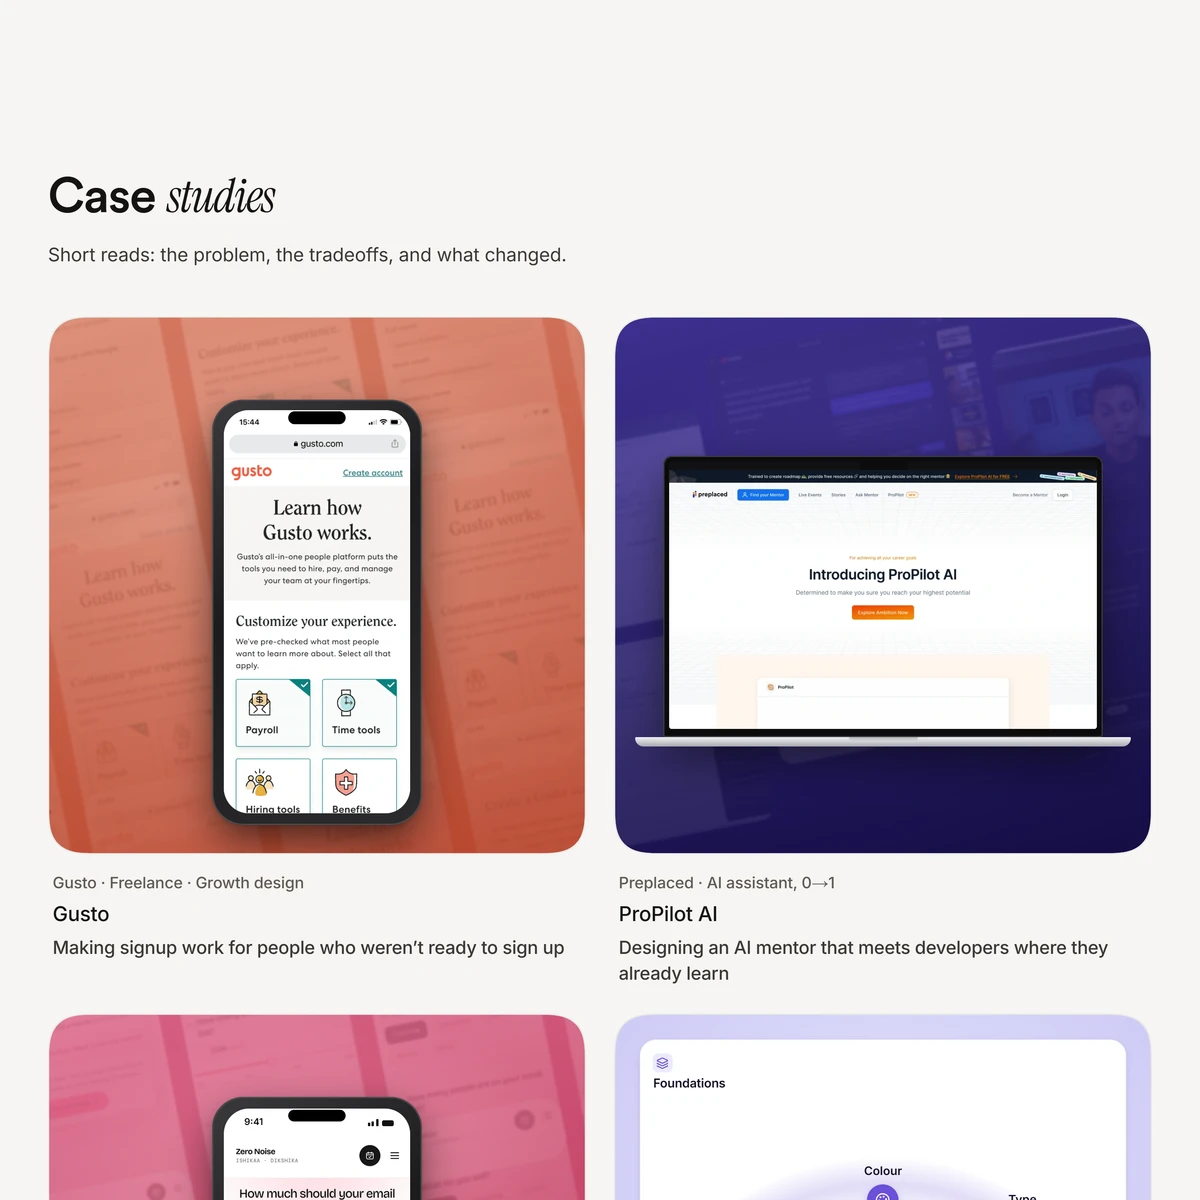
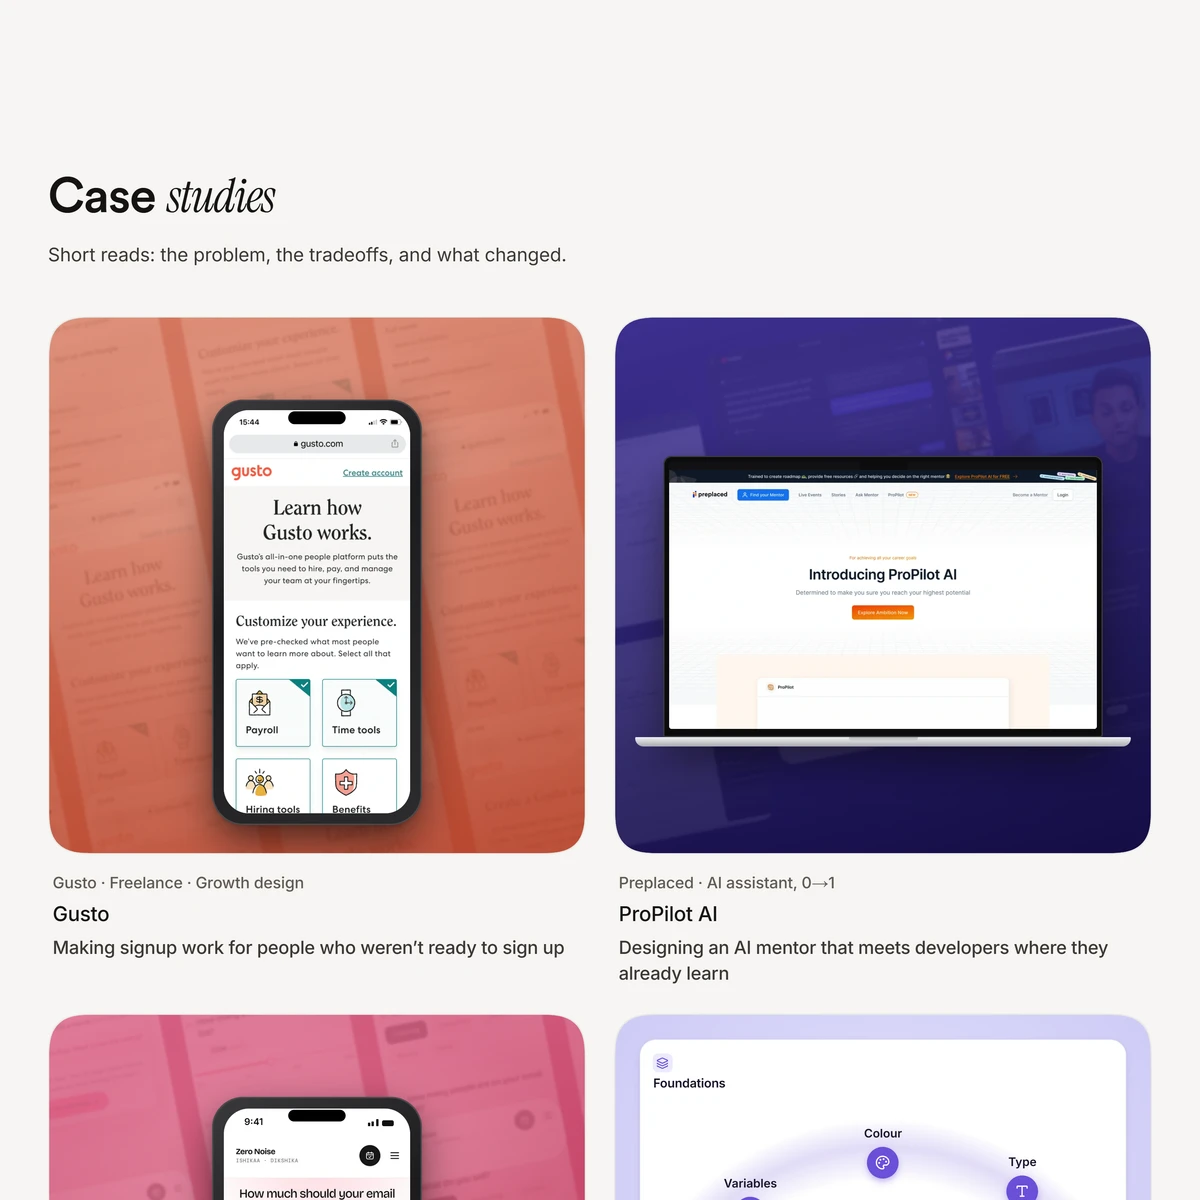
Bento covers: arc sits higher; Internshala now before Natasha

Changed region(s): [[0.5858, 0.925, 0.8942, 1.0]]

diff --git a/src/content/case-studies.ts b/src/content/case-studies.ts
@@ -719,99 +719,7 @@ export const caseStudies: CaseStudy[] = [
     ],
   },
 
-  // ─────────────────────────────── 05. Natasha ───────────────────────────────
-  {
-    slug: "natasha",
-    name: "Natasha",
-    title: "Designing Builder.ai’s AI Product Manager across chat, voice, and the workspace",
-    meta: ["Product Designer", "Builder.ai", "Conversational interface design", "Part of the BLOCK redesign"],
-    intro:
-      "Natasha was being introduced as Builder.ai’s AI Product Manager: a conversational way to help people begin building an app or explore an idea. I worked on the interface and reusable patterns for that experience as part of the wider design-system redesign supporting its launch. The design spans a compact side panel, an immersive conversation view, and an in-page voice bar. The challenge was to make each mode understandable while preserving a recognisable interaction language.",
-    summary: {
-      heading: "What the design covered",
-      items: [
-        "Welcome states and starting prompts that make the assistant’s purpose concrete.",
-        "Text input, voice entry, and transcribed user-message patterns.",
-        "Structured responses with follow-up actions and response-level controls.",
-        "Listening, thinking, speaking, pause, loading, and interruption states.",
-      ],
-    },
-    label: "Builder.ai · AI product",
-    deliverables: ["Conversation UI", "Voice states", "Components", "Interaction design"],
-    concept: false,
-    sections: [
-      {
-        title: "Make the first conversation easier to begin",
-        body: [
-          "The opening experience introduces Natasha and asks what the person would like to build. Suggested starting points such as “Build app”, “Create store”, and “Prototype” connect the assistant to recognisable goals.",
-          "This gives someone a starting point even if they have not worked out how to phrase their request. The message field remains available for people ready to describe their own idea.",
-          "The design intention was to communicate both purpose and possibility: what Natasha can help with, and how to start.",
-        ],
-        visuals: [
-          {
-            kind: "browser",
-            shots: [shot("/work/natasha/immersive-welcome.webp", "Immersive welcome: the opening question, message field, Talk control, and goal-based prompts")],
-            caption: "The opening question, message field, Talk control, and goal-based prompts introduce the experience",
-          },
-        ],
-      },
-      {
-        title: "Give conversation the space it needs",
-        body: [
-          "The side panel keeps Natasha close to the surrounding product. Its header includes controls to expand or close the experience, while the composer remains at the bottom of the conversation.",
-          "The immersive view gives the same conversation patterns a wider canvas. Shared response and input components adapt to that space, keeping the interaction recognisable across both formats.",
-          "The trade-off is focus against context. A compact panel leaves more of the existing workspace available; the immersive format gives the conversation more room. The design provides both layouts without assuming one will suit every moment.",
-        ],
-        visuals: [
-          {
-            kind: "devices",
-            shots: [shot("/work/natasha/panel-welcome.webp", "The compact side panel: Natasha’s welcome and starting prompts"), shot("/work/natasha/panel-conversation.webp", "The compact side panel: a response with controls and follow-ups")],
-            caption: "Compact welcome and conversation examples from the final component family. Example response text is illustrative.",
-          },
-        ],
-      },
-      {
-        title: "Make text and voice visible choices",
-        body: [
-          "“Talk” is presented beside the message composer as an explicit entry into the voice experience. The component model also accounts for transcribed user messages, with distinct formats for spoken and typed input.",
-          "An in-page voice bar provides another way to keep the interaction available alongside page content. Its controls expose the current state and ways to pause, close, or interrupt the exchange.",
-        ],
-      },
-      {
-        title: "Show what Natasha is doing",
-        body: [
-          "A voice interface needs to distinguish listening from processing and speaking. The design includes explicit “Listening” and “Thinking” states, along with a “Click to interrupt” state during output.",
-          "The file also defines idle, loading, pause, and transitions between the main voice states. That state coverage makes the moments between responses part of the experience specification.",
-          "Interruption is particularly important: people need an understandable way to take their turn again. A changing visual treatment is supported by a clear action label.",
-        ],
-        visuals: [{ kind: "board", shot: shot("/work/natasha/voice-states.webp", "Voice controls: Start speaking, Listening, Thinking, and Click to interrupt"), caption: "Voice controls: Start speaking, Listening, Thinking, and Click to interrupt" }],
-      },
-      {
-        title: "Give responses structure and a next step",
-        body: [
-          "Natasha’s responses are built from body text, headings, subheadings, bullets, and numbered lists, with corresponding compact and immersive variants.",
-          "Response-level controls provide playback, copying, and feedback affordances. Suggested follow-ups let people indicate whether a response works for them and continue the exchange.",
-          "This makes the response an interaction point. The user can read it, respond to it, and decide how to proceed.",
-        ],
-      },
-      {
-        title: "Set expectations within the experience",
-        body: [
-          "The compact interface includes a reminder that Natasha can make mistakes and that responses should be checked. Combined with feedback and interruption controls, this makes room for the user to question or redirect the assistant.",
-        ],
-      },
-      {
-        title: "Outcome and reflection",
-        body: [
-          "The delivered design work defined the main conversation surfaces, reusable response patterns, and the state model around text and voice as part of the launch-focused redesign.",
-          "I would validate how easily people start a useful conversation, understand the current voice state, interrupt a response, and interpret the next available action.",
-          "The project reinforced how much of a conversational experience happens around the answer. Starting, waiting, switching modes, and taking control again all need the same level of design attention as the response itself.",
-        ],
-      },
-    ],
-  },
-
-  // ─────────────────────────────── 06. Internshala ───────────────────────────────
+  // ─────────────────────────────── 05. Internshala ───────────────────────────────
   {
     slug: "internshala",
     name: "Internshala",
@@ -982,6 +890,98 @@ export const caseStudies: CaseStudy[] = [
           "I began this project thinking the most frustrating part of internship hunting was filling forms. Research changed that. The deeper problem was uncertainty.",
           "Candidates don’t only need a faster way to apply. They need the product to help them understand what fits them, what remains to be done, and what happened after they took the risk of applying.",
           "Good hiring UX cannot guarantee the outcome. It can make the journey feel substantially less like a black hole.",
+        ],
+      },
+    ],
+  },
+
+  // ─────────────────────────────── 06. Natasha ───────────────────────────────
+  {
+    slug: "natasha",
+    name: "Natasha",
+    title: "Designing Builder.ai’s AI Product Manager across chat, voice, and the workspace",
+    meta: ["Product Designer", "Builder.ai", "Conversational interface design", "Part of the BLOCK redesign"],
+    intro:
+      "Natasha was being introduced as Builder.ai’s AI Product Manager: a conversational way to help people begin building an app or explore an idea. I worked on the interface and reusable patterns for that experience as part of the wider design-system redesign supporting its launch. The design spans a compact side panel, an immersive conversation view, and an in-page voice bar. The challenge was to make each mode understandable while preserving a recognisable interaction language.",
+    summary: {
+      heading: "What the design covered",
+      items: [
+        "Welcome states and starting prompts that make the assistant’s purpose concrete.",
+        "Text input, voice entry, and transcribed user-message patterns.",
+        "Structured responses with follow-up actions and response-level controls.",
+        "Listening, thinking, speaking, pause, loading, and interruption states.",
+      ],
+    },
+    label: "Builder.ai · AI product",
+    deliverables: ["Conversation UI", "Voice states", "Components", "Interaction design"],
+    concept: false,
+    sections: [
+      {
+        title: "Make the first conversation easier to begin",
+        body: [
+          "The opening experience introduces Natasha and asks what the person would like to build. Suggested starting points such as “Build app”, “Create store”, and “Prototype” connect the assistant to recognisable goals.",
+          "This gives someone a starting point even if they have not worked out how to phrase their request. The message field remains available for people ready to describe their own idea.",
+          "The design intention was to communicate both purpose and possibility: what Natasha can help with, and how to start.",
+        ],
+        visuals: [
+          {
+            kind: "browser",
+            shots: [shot("/work/natasha/immersive-welcome.webp", "Immersive welcome: the opening question, message field, Talk control, and goal-based prompts")],
+            caption: "The opening question, message field, Talk control, and goal-based prompts introduce the experience",
+          },
+        ],
+      },
+      {
+        title: "Give conversation the space it needs",
+        body: [
+          "The side panel keeps Natasha close to the surrounding product. Its header includes controls to expand or close the experience, while the composer remains at the bottom of the conversation.",
+          "The immersive view gives the same conversation patterns a wider canvas. Shared response and input components adapt to that space, keeping the interaction recognisable across both formats.",
+          "The trade-off is focus against context. A compact panel leaves more of the existing workspace available; the immersive format gives the conversation more room. The design provides both layouts without assuming one will suit every moment.",
+        ],
+        visuals: [
+          {
+            kind: "devices",
+            shots: [shot("/work/natasha/panel-welcome.webp", "The compact side panel: Natasha’s welcome and starting prompts"), shot("/work/natasha/panel-conversation.webp", "The compact side panel: a response with controls and follow-ups")],
+            caption: "Compact welcome and conversation examples from the final component family. Example response text is illustrative.",
+          },
+        ],
+      },
+      {
+        title: "Make text and voice visible choices",
+        body: [
+          "“Talk” is presented beside the message composer as an explicit entry into the voice experience. The component model also accounts for transcribed user messages, with distinct formats for spoken and typed input.",
+          "An in-page voice bar provides another way to keep the interaction available alongside page content. Its controls expose the current state and ways to pause, close, or interrupt the exchange.",
+        ],
+      },
+      {
+        title: "Show what Natasha is doing",
+        body: [
+          "A voice interface needs to distinguish listening from processing and speaking. The design includes explicit “Listening” and “Thinking” states, along with a “Click to interrupt” state during output.",
+          "The file also defines idle, loading, pause, and transitions between the main voice states. That state coverage makes the moments between responses part of the experience specification.",
+          "Interruption is particularly important: people need an understandable way to take their turn again. A changing visual treatment is supported by a clear action label.",
+        ],
+        visuals: [{ kind: "board", shot: shot("/work/natasha/voice-states.webp", "Voice controls: Start speaking, Listening, Thinking, and Click to interrupt"), caption: "Voice controls: Start speaking, Listening, Thinking, and Click to interrupt" }],
+      },
+      {
+        title: "Give responses structure and a next step",
+        body: [
+          "Natasha’s responses are built from body text, headings, subheadings, bullets, and numbered lists, with corresponding compact and immersive variants.",
+          "Response-level controls provide playback, copying, and feedback affordances. Suggested follow-ups let people indicate whether a response works for them and continue the exchange.",
+          "This makes the response an interaction point. The user can read it, respond to it, and decide how to proceed.",
+        ],
+      },
+      {
+        title: "Set expectations within the experience",
+        body: [
+          "The compact interface includes a reminder that Natasha can make mistakes and that responses should be checked. Combined with feedback and interruption controls, this makes room for the user to question or redirect the assistant.",
+        ],
+      },
+      {
+        title: "Outcome and reflection",
+        body: [
+          "The delivered design work defined the main conversation surfaces, reusable response patterns, and the state model around text and voice as part of the launch-focused redesign.",
+          "I would validate how easily people start a useful conversation, understand the current voice state, interrupt a response, and interpret the next available action.",
+          "The project reinforced how much of a conversational experience happens around the answer. Starting, waiting, switching modes, and taking control again all need the same level of design attention as the response itself.",
         ],
       },
     ],

diff --git a/src/app/(site)/globals.css b/src/app/(site)/globals.css
@@ -1668,9 +1668,9 @@ html[data-motion="paused"] .cv-scroll__page { animation: none; }
 
 /* the arc: a ring of tools rotating behind the card's lower edge */
 .bn-arc { position: absolute; inset: 0; }
-.bn-arc__glow { position: absolute; left: 50%; top: 22cqw; width: 104cqw; height: 104cqw; margin-left: -52cqw; border-radius: 50%;
+.bn-arc__glow { position: absolute; left: 50%; top: 15cqw; width: 104cqw; height: 104cqw; margin-left: -52cqw; border-radius: 50%;
   background: radial-gradient(closest-side, transparent 78%, color-mix(in oklab, var(--bn-accent) 20%, transparent) 90%, transparent 100%); }
-.bn-arc__ring { position: absolute; left: 50%; top: 22cqw; width: 0; height: 0; margin-top: 52cqw; animation: bn-spin 36s linear infinite; }
+.bn-arc__ring { position: absolute; left: 50%; top: 15cqw; width: 0; height: 0; margin-top: 52cqw; animation: bn-spin 36s linear infinite; }
 .bn-arc__spoke { position: absolute; left: 0; top: 0; transform: rotate(var(--a)) translateY(-46cqw); }
 .bn-arc__item { transform: translate(-50%, -50%) rotate(calc(-1 * var(--a))); }
 /* label and dot turn back together, so the label stays upright above its dot */
